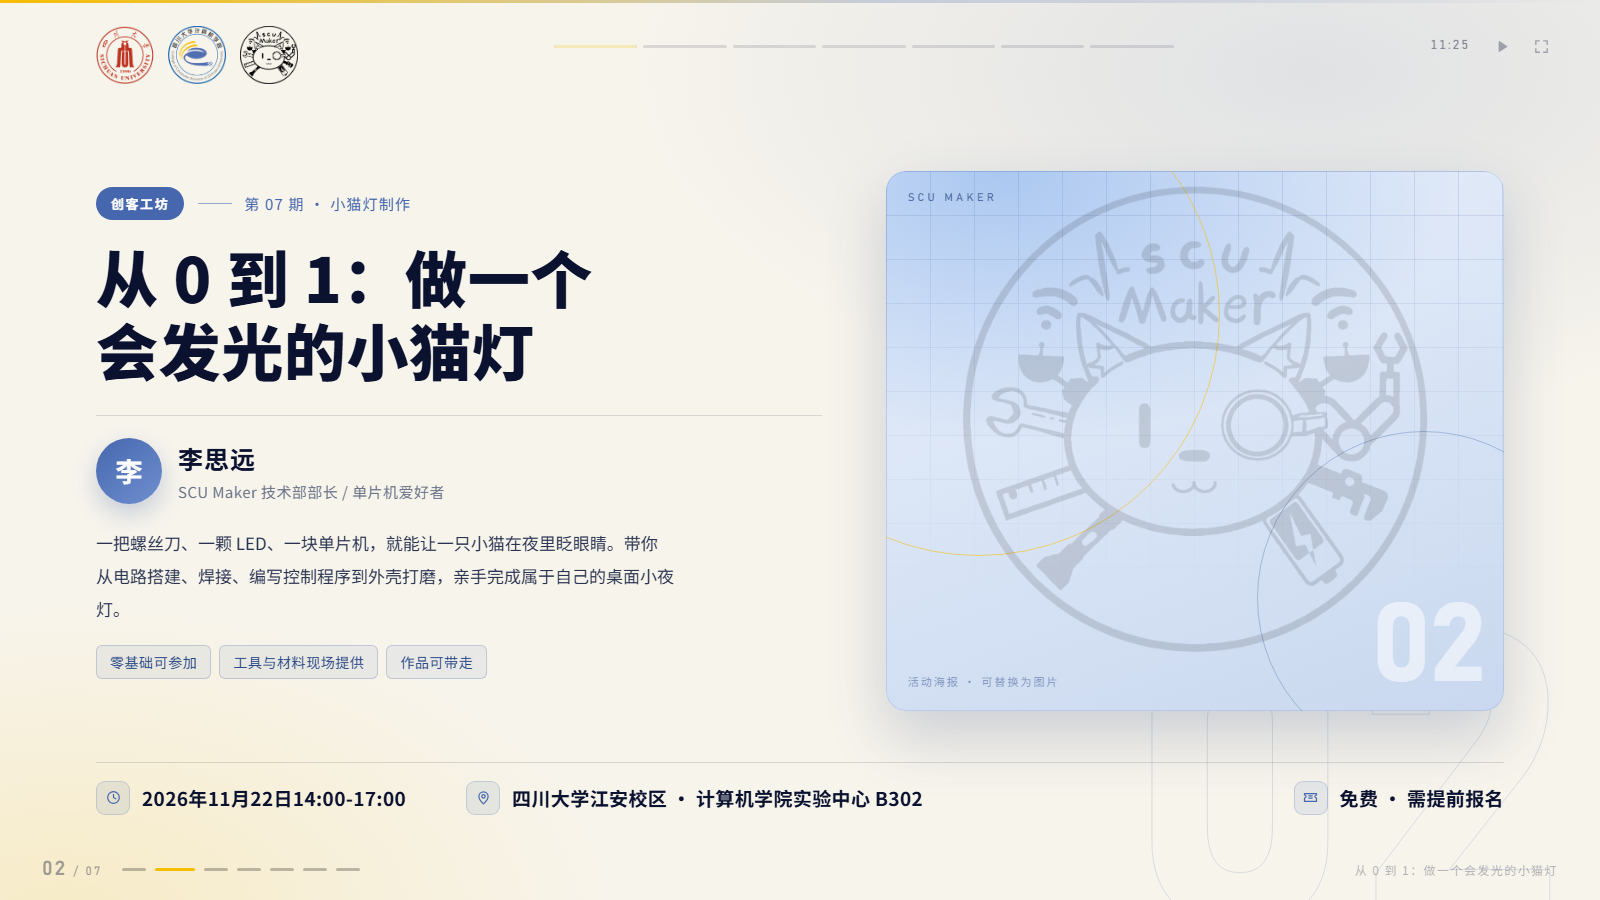
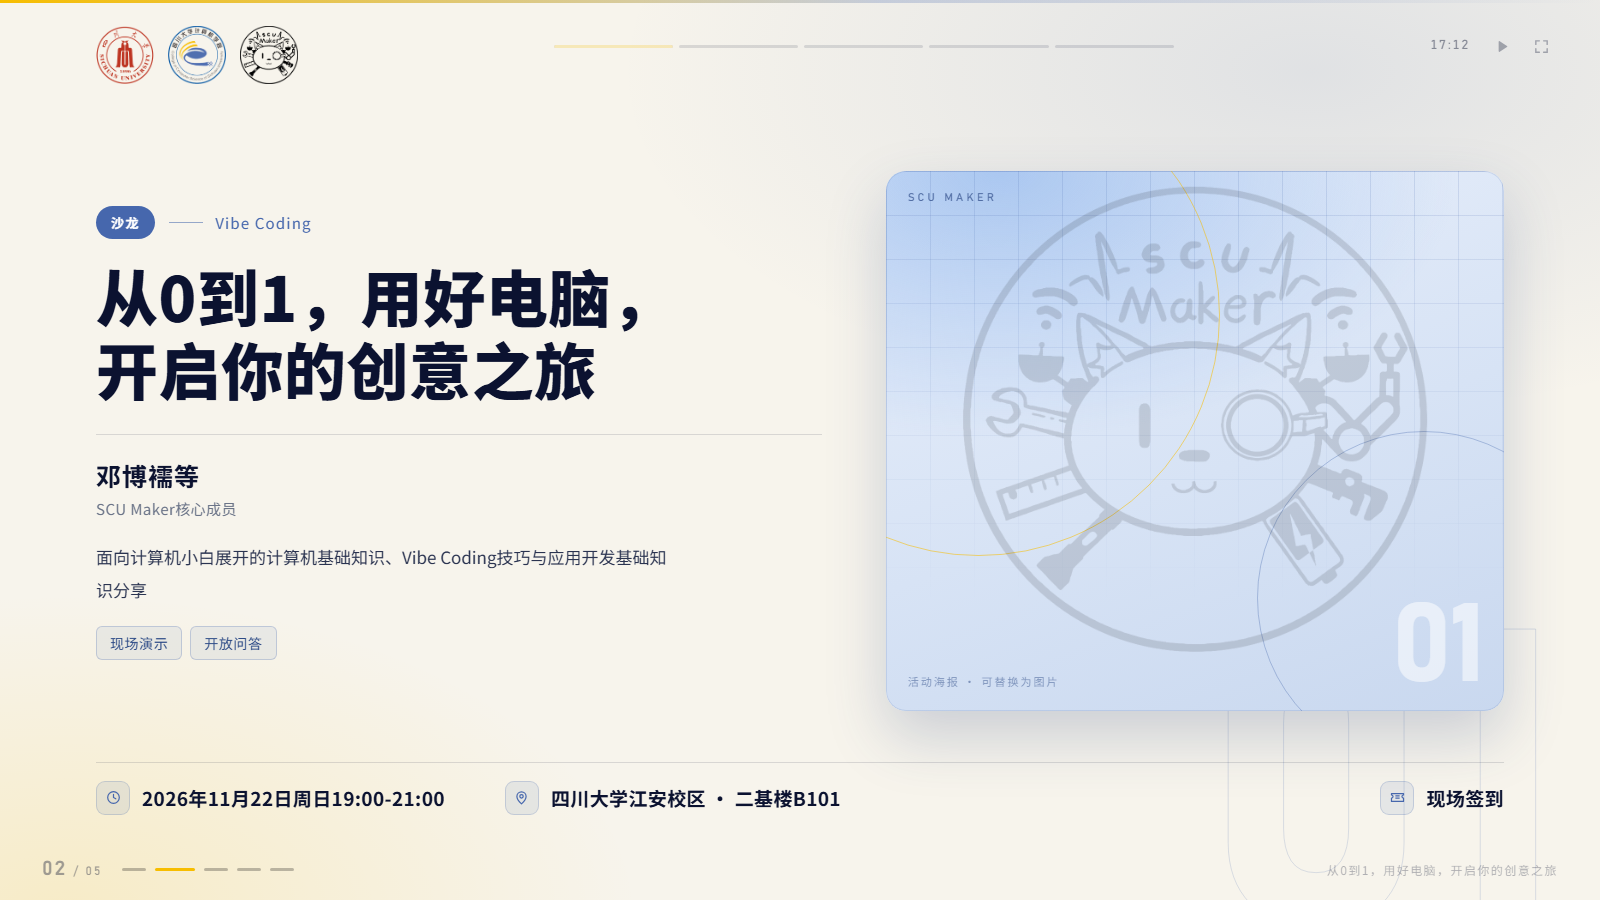
更新

diff --git a/js/config.js b/js/config.js
@@ -66,131 +66,87 @@ window.CONFIG = {
    *  zh / en 里各自放这一种语言的全部文字：
    *      tag（左上角标签）, category（同行小字）, title,
    *      speaker, speakerTitle, time, place, description,
-   *      highlights[], entry, qrText, speakerAvatar(可选)
+   *      highlights[], entry, qrText
    *
    *  · 底部时间栏 = 日期 + 时段，自动拼成「2026年11月22日14:00-17:00」这样的格式。
    *  · title 里用 **文字** 可以加金色下划线强调。
    *  · 想加活动：复制一整个 { ... } 对象即可，页码与进度条会自动增加。
    * ---------------------------------------------------------------------- */
   posters: [
-
     {
       date: '2026.11.22',
-      weekday: '周六',
-      weekdayEn: 'Sat',
-      color: '#f7bd00',
-      duration: 10000,
-      image: '',
-      qr: '',
-
-      zh: {
-        tag: '创客工坊',
-        category: '第 07 期 · 小猫灯制作',
-        title: '从 0 到 1：做一个会发光的小猫灯',
-        speaker: '李思远',
-        speakerTitle: 'SCU Maker 技术部部长 / 单片机爱好者',
-        speakerAvatar: '',
-        time: '14:00 — 17:00',
-        place: '四川大学江安校区 · 计算机学院实验中心 B302',
-        description: '一把螺丝刀、一颗 LED、一块单片机，就能让一只小猫在夜里眨眼睛。带你从电路搭建、焊接、编写控制程序到外壳打磨，亲手完成属于自己的桌面小夜灯。',
-        highlights: ['零基础可参加', '工具与材料现场提供', '作品可带走'],
-        entry: '免费 · 需提前报名',
-        qrText: '扫码报名 · 限 30 人'
-      },
-
-      en: {
-        tag: 'WORKSHOP',
-        category: 'Vol. 07 · Cat Lamp Build',
-        title: 'From Zero to One: Build a Glowing Cat Lamp',
-        speaker: 'Li Siyuan',
-        speakerTitle: 'Head of Tech, SCU Maker · Microcontroller enthusiast',
-        speakerAvatar: '',
-        time: '14:00 – 17:00',
-        place: 'Lab Center B302, College of Computer Science, Jiang\'an Campus, SCU',
-        description: 'A screwdriver, an LED and a microcontroller are all it takes to make a little cat blink in the dark. Build the circuit, solder it, write the firmware and finish the shell — leave with your own desk lamp.',
-        highlights: ['No experience needed', 'Tools & materials provided', 'Take your build home'],
-        entry: 'Free · RSVP required',
-        qrText: 'Scan to register · 30 seats'
-      }
-    },
-
-    {
-      date: '2026.12.06',
-      weekday: '周六',
-      weekdayEn: 'Sat',
+      weekday: '周日',
+      weekdayEn: 'Sun',
       color: '#7aa8e8',
       duration: 10000,
       image: '',
       qr: '',
 
       zh: {
-        tag: '前辈沙龙',
-        category: '计算机视觉 × 生成模型',
-        title: '在图像里寻找光：扩散模型与创意工具',
-        speaker: '汪 清',
-        speakerTitle: '计算机学院副教授 / 计算机视觉方向',
-        speakerAvatar: '',
+        tag: '沙龙',
+        category: 'Vibe Coding',
+        title: '从0到1，用好电脑，开启你的创意之旅',
+        speaker: '邓博襦等',
+        speakerTitle: 'SCU Maker核心成员',
         time: '19:00 — 21:00',
-        place: '四川大学江安校区 · 一号教学楼 A101 报告厅',
-        description: '从一张草图到一幅作品，扩散模型如何理解“光”与“美”？本次沙龙将拆解生成模型的原理脉络，并聊聊它如何融入创作者的日常工具链。',
+        place: '四川大学江安校区 · 二基楼B101',
+        description: '面向计算机小白展开的计算机基础知识、Vibe Coding技巧与应用开发基础知识分享',
         highlights: ['现场演示', '开放问答'],
-        entry: '免费入场 · 现场签到',
-        qrText: '扫码报名 · 现场签到'
+        entry: '现场签到',
+        qrText: '现场签到'
       },
 
       en: {
-        tag: 'SHARING',
-        category: 'Computer Vision × Generative Models',
-        title: 'Finding Light in Images: Diffusion Models & Creative Tools',
-        speaker: 'Wang Qing',
-        speakerTitle: 'Associate Professor, Computer Vision',
-        speakerAvatar: '',
-        time: '19:00 – 21:00',
-        place: 'Lecture Hall A101, Teaching Building 1, Jiang\'an Campus, SCU',
-        description: 'From a rough sketch to a finished artwork — how do diffusion models understand light and beauty? We break down how generative models work, and how they fit into a creator\'s everyday toolkit.',
+        tag: 'SALON',
+        category: 'Vibe Coding',
+        title: 'From 0 to 1: Make Good Use of Your Computer and Start Your Creative Journey',
+        speaker: 'Boru Deng, etc.',
+        speakerTitle: 'Core Member, SCU Maker',
+        time: '19:00 — 21:00',
+        place: 'Room B101, Building 2, Jiang\'an Campus, Sichuan University',
+        description: 'A sharing session for computer beginners covering computer fundamentals, Vibe Coding tips, and application development basics.',
         highlights: ['Live demo', 'Open Q&A'],
-        entry: 'Free entry · Check in on site',
-        qrText: 'Scan to register'
+        entry: 'Check in on site',
+        qrText: 'Check in on site'
       }
     },
 
     {
-      date: '2026.12.20',
-      weekday: '周六',
-      weekdayEn: 'Sat',
-      color: '#f7bd00',
+      // 长期举办的活动：date 留空，weekday 写「长期 / Ongoing service」即可
+      date: '',
+      weekday: '长期',
+      weekdayEn: 'Ongoing service',
+      color: '#7aa8e8',
       duration: 10000,
       image: '',
       qr: '',
 
       zh: {
-        tag: '创客马拉松',
-        category: '48 小时 · 自由组队',
-        title: '造物马拉松：猫的 48 小时',
-        speaker: '全体理事',
-        speakerTitle: 'SCU Maker 理事团队',
-        speakerAvatar: '',
-        time: '09:00-次日 21:00',
-        place: '四川大学江安校区 · 工程训练中心 创客空间',
-        description: '48 小时组队、选主题、做原型、路演。硬件、软件、设计、机械可自由组队；现场提供 3D 打印机、激光切割机、电子元件与全天候咖啡。',
-        highlights: ['自由组队 2–4 人', '设备与耗材全提供', '最佳作品入驻学院展厅'],
-        entry: '免费 · 自由组队',
-        qrText: '扫码组队报名'
+        tag: '互助',
+        category: '电脑维修',
+        title: '四川大学软件学院“飞扬”协会长期免费维修电脑公益活动',
+        speaker: '四川大学软件学院“飞扬”协会',
+        speakerTitle: '',
+        time: '',
+        place: '四川大学江安校区“i创街”智能科学创新与开源硬件工坊',
+        description: '四川大学软件学院“飞扬”协会长期开展免费维修电脑公益活动，面向全校师生提供电脑故障排查、系统维护与硬件检修等互助服务。',
+        highlights: ['免费维修', '长期开展'],
+        entry: '欢迎直接进门咨询',
+        qrText: '欢迎直接进门咨询'
       },
 
       en: {
-        tag: 'HACKATHON',
-        category: '48 Hours · Team Up',
-        title: 'Make-a-Thon: 48 Hours of Cats',
-        speaker: 'SCU Maker Board',
-        speakerTitle: 'The SCU Maker organizing team',
-        speakerAvatar: '',
-        time: '09:00-next day 21:00',
-        place: 'Maker Space, Engineering Training Center, Jiang\'an Campus, SCU',
-        description: 'Team up, pick a theme, build a prototype and pitch it — all in 48 hours. Hardware, software, design and mechanical makers welcome. 3D printers, laser cutters, electronics and coffee provided.',
-        highlights: ['Teams of 2–4', 'Equipment & materials provided', 'Best work shown at the college'],
-        entry: 'Free · Form a team',
-        qrText: 'Scan to form a team'
+        tag: 'Mutual Help',
+        category: 'PC Repair',
+        title: 'Ongoing Free Computer Repair Charity Service by "Feiyang" Association, School of Software, Sichuan University',
+        speaker: '"Feiyang" Association, School of Software, Sichuan University',
+        speakerTitle: '',
+        time: '',
+        place: '"i-Chuang Street" Intelligent Science Innovation & Open-Source Hardware Offense-Defense Workshop, Jiang\'an Campus, Sichuan University',
+        description: 'The "Feiyang" Association of the School of Software, Sichuan University runs an ongoing free computer repair charity service, offering troubleshooting, system maintenance, and hardware repair to students and faculty.',
+        highlights: ['Free repair', 'Ongoing service'],
+        entry: 'Walk in and ask — no appointment needed',
+        qrText: 'Walk in and ask — no appointment needed'
       }
     }
 

diff --git a/js/poster.js b/js/poster.js
@@ -48,28 +48,35 @@
   function pad(n) { return (n < 10 ? '0' : '') + n; }
 
   /**
-   * @param {object} p     config.posters 里的一项
-   * @param {number} index 在整场幻灯片里的顺序（0 起）
+   * @param {object} p     config.posters 里的一项（一个活动）
+   * @param {number} index 第几个活动（0 起，中英两页共用同一个编号）
    * @param {string} lang  'zh' | 'en'
    */
   function PosterSlide(p, index, lang) {
     var common = p || {};
     var d = Object.assign({}, common, (common[lang] || {}));
     var isEn = lang === 'en';
-    var no = pad(index + 1);
+    var no = pad(index + 1);   // 活动序号，中英双语页显示同一个数字
     var accent = d.color || '#f7bd00';
     var duration = d.duration || 9000;
     var speaker = d.speaker || '';
-    var timeFull = (d.date ? (isEn ? dateEn(d.date) + ' · ' : dateZh(d.date)) : '') + normTime(d.time);
+    // 时间栏 = 日期 + 时段 + 星期，缺哪个就跳过，不会出现多余的分隔符
+    //   长期活动：date='' 、weekday='长期'  →  只显示「长期」
+    //   单次活动：date + weekday + time    →  「2026年11月22日周日19:00-21:00」
+    var parts = [];
+    if (d.date) parts.push(isEn ? dateEn(d.date) : dateZh(d.date));
+    var wk = isEn ? (d.weekdayEn || '') : (d.weekday || '');
+    var tm = normTime(d.time);
+    if (wk && tm && (wk === tm || tm.indexOf(wk) === 0)) wk = '';   // 星期已包含在时段里就不重复
+    if (wk) parts.push(wk);
+    if (tm) parts.push(tm);
+    var timeFull = parts.join(isEn ? ' · ' : '');
 
 
     var el = document.createElement('section');
     el.className = 'slide poster-slide';
     el.style.setProperty('--accent', accent);
 
-    var avatarInner = d.speakerAvatar
-      ? '<img src="' + esc(d.speakerAvatar) + '" alt="' + esc(speaker) + '">'
-      : esc(speaker.replace(/\s/g, '').slice(0, 1) || 'M');
 
     var chips = (d.highlights && d.highlights.length)
       ? '<ul class="p-chips reveal">' + d.highlights.map(function (h) {
@@ -93,10 +100,9 @@
             '</div>' +
             '<h1 class="p-title reveal">' + rich(d.title || '') + '</h1>' +
             '<div class="p-speaker reveal">' +
-              '<div class="avatar">' + avatarInner + '</div>' +
               '<div>' +
                 '<div class="speaker-name">' + esc(speaker) + '</div>' +
-                '<div class="speaker-role">' + esc(d.speakerTitle || '') + '</div>' +
+                (d.speakerTitle ? '<div class="speaker-role">' + esc(d.speakerTitle) + '</div>' : '') +
               '</div>' +
             '</div>' +
             (d.description ? '<p class="p-desc reveal">' + esc(d.description) + '</p>' : '') +

diff --git a/js/app.js b/js/app.js
@@ -58,10 +58,10 @@
     stage.appendChild(intro.el);
   }
 
-  // 每个活动生成两页：先中文、后英文
-  posters.forEach(function (p) {
+  // 每个活动生成两页：先中文、后英文（两页共用同一个活动序号）
+  posters.forEach(function (p, actIndex) {
     ['zh', 'en'].forEach(function (lang) {
-      var s = window.PosterSlide(p, deck.slides.length, lang);
+      var s = window.PosterSlide(p, actIndex, lang);
       deck.slides.push(s);
       stage.appendChild(s.el);
     });

diff --git a/css/style.css b/css/style.css
@@ -777,6 +777,8 @@ body:hover .edge { opacity: 0.55; }
   border-top: 1px solid var(--line);
 }
 .info-item { display: flex; align-items: center; gap: 12px; min-width: 0; }
+.info-item.time { align-self: flex-start; }
+.info-item.entry { align-self: flex-end; }
 .info-item.entry { flex: none; }
 .info-item.time { flex: none; }
 .info-item.place { flex: 1; }

diff --git a/README.md b/README.md
@@ -129,6 +129,10 @@ intro: {
 
 `zh` / `en` 里各放这一种语言的全部文字（标签与分类在同一行；底部时间栏自动拼成「2026年11月22日14:00-17:00」）：
 
+> 右侧海报图右下角的大号数字是**活动序号**（第几个活动），中英两页显示同一个数字；底部进度条旁的页码才是当前第几页。
+
+> 长期举办、没有具体日期的活动：把 `date` 留空，时间栏就只显示 `time` 这一行（例如中文 `time: '长期举行'`、英文 `time: 'Ongoing · regular sessions'`）。
+
 ```js
 {
   date: '2025.11.22', weekday: '周六', weekdayEn: 'Sat',
@@ -140,7 +144,6 @@ intro: {
     title: '从 0 到 1：做一个会发光的小猫灯',   // **文字** 可加金色下划线
     speaker: '李思远',
     speakerTitle: 'SCU Maker 技术部部长 / 单片机爱好者',
-    speakerAvatar: '',          // 头像图片路径，留空显示姓氏首字
     time: '14:00 — 17:00',      // 与 date 合成「2026年11月22日14:00-17:00」
     place: '四川大学江安校区 · 计算机学院实验中心 B302',
     description: '……',
@@ -155,7 +158,6 @@ intro: {
     title: 'From Zero to One: Build a Glowing Cat Lamp',
     speaker: 'Li Siyuan',
     speakerTitle: 'Head of Tech, SCU Maker · Microcontroller enthusiast',
-    speakerAvatar: '',
     time: '14:00 – 17:00',
     place: 'Lab Center B302, College of Computer Science, Jiang'an Campus, SCU',
     description: '……',
@@ -181,6 +183,9 @@ intro: {
 4. **停留**：Logo 停留 10 秒后自动翻到第一张海报。
 
 时长是自动算的：`色块总时长 + 视频时长 + 黑场退去 1.5 秒 + 10 秒`（压黑与视频尾巴重叠，不额外占时间），进度条也会跟着更新，所以换一个不同长度的视频不用改任何时间配置。
+
+---
+
 ## 五、常见问题
 
 **Q：打开是白屏？**
